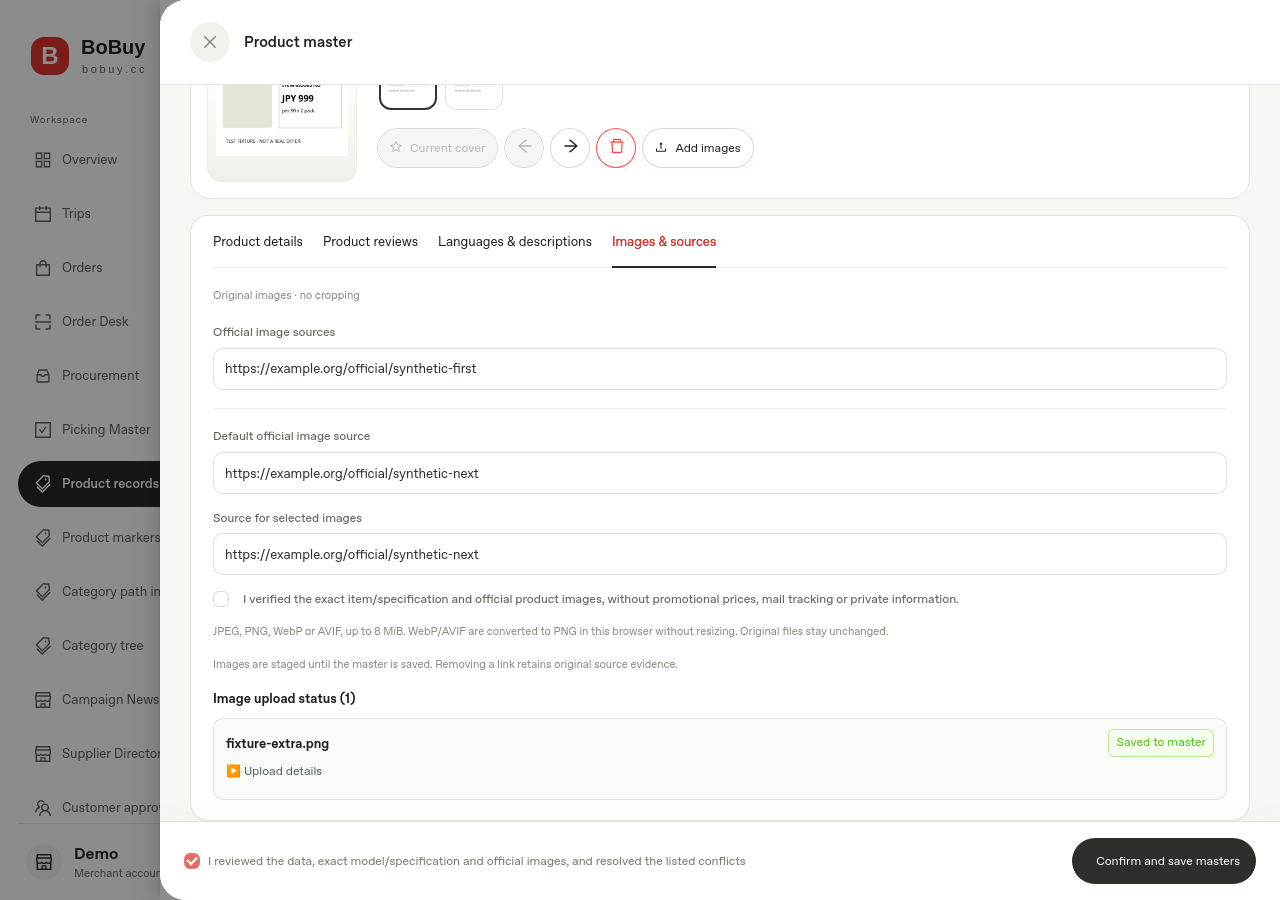
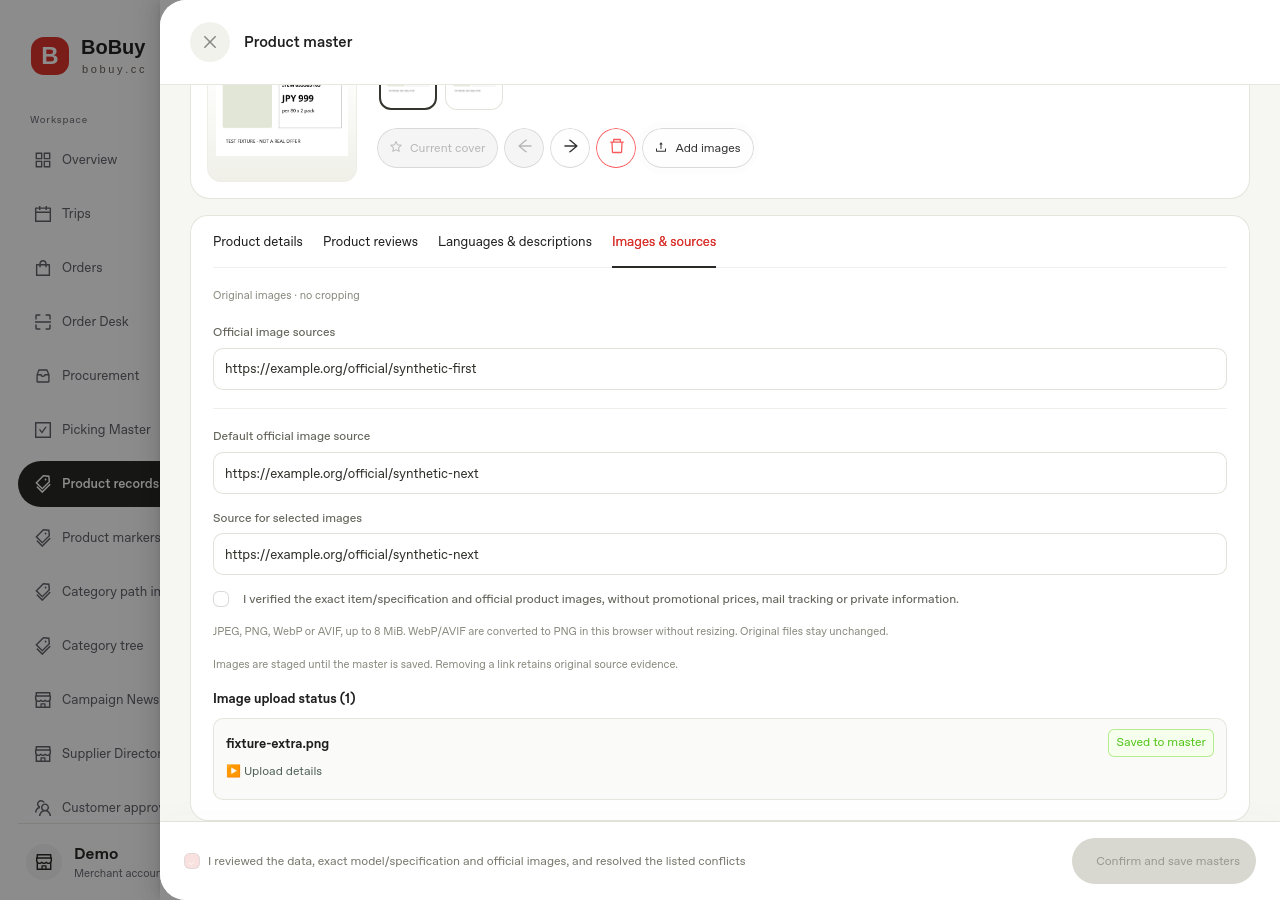
Keep the pending image source editable after removing the last image

Changed region(s): [[0.8125, 0.9333, 1.0, 0.9956], [0.125, 0.9333, 0.1562, 0.9644]]

diff --git a/frontend/src/components/ProductCatalogPanel.uploadFeedback.test.tsx b/frontend/src/components/ProductCatalogPanel.uploadFeedback.test.tsx
@@ -48,6 +48,59 @@ it('opens the picker once per add action even before source review, including af
  expect(screen.getByRole('button',{name:'Upload selected images'})).toBeDisabled();
  expect(mock.upload).not.toHaveBeenCalled();
 });
+it('clears staged files, temporary source and approval when closing A and opening B',async()=>{
+ const savedSource='https://manufacturer.example/saved-source';
+ const override='https://manufacturer.example/only-for-a';
+ const original=picture('original',file('original.png').sha);
+ mock.get.mockImplementation(async(id:string)=>({
+  value:{...value,productId:id,itemNumber:id==='p1'?'SKU-P1':'SKU-P2',
+   defaultImageSourceUrl:savedSource,gallery:[original]},canonical:true,sourceItemIds:[]
+ }));
+ const onChoose=vi.fn(),onSaved=vi.fn();
+ const editor=(id?:string)=><I18nProvider><ProductCatalogPanel id={id} entries={[]} onChoose={onChoose} onSaved={onSaved}/></I18nProvider>;
+ const view=render(editor('p1'));
+ await openMedia();
+ const source=()=>screen.getByLabelText('Source for selected images');
+ const approval=()=>screen.getByRole('checkbox',{name:/I verified the exact item/});
+ fireEvent.change(source(),{target:{value:override}});
+ fireEvent.click(approval());
+ fireEvent.change(input(),{target:{files:[file('private-a.png').file]}});
+ expect(screen.getByText('private-a.png')).toBeInTheDocument();
+ fireEvent.change(input(),{target:{files:[]}});
+ expect(screen.getByText('private-a.png')).toBeInTheDocument();
+ expect(source()).toHaveValue(override);
+ expect(approval()).toBeChecked();
+ fireEvent.click(screen.getByRole('button',{name:'Close'}));
+ expect(onChoose).toHaveBeenCalledWith(undefined);
+ view.rerender(editor());
+ view.rerender(editor('p2'));
+ await screen.findByDisplayValue('SKU-P2');
+ fireEvent.click(screen.getByRole('tab',{name:'Images & sources'}));
+ expect(screen.queryByText('private-a.png')).not.toBeInTheDocument();
+ expect(screen.queryByRole('button',{name:'Upload selected images'})).not.toBeInTheDocument();
+ expect(source()).toHaveValue(savedSource);
+ expect(approval()).not.toBeChecked();
+ view.rerender(editor('p1'));
+ await openMedia();
+ expect(screen.queryByText('private-a.png')).not.toBeInTheDocument();
+ expect(source()).toHaveValue(savedSource);
+ expect(approval()).not.toBeChecked();
+ expect(mock.upload).not.toHaveBeenCalled();
+});
+it('allows recovering the per-upload source after removing the last existing image',async()=>{
+ const original=picture('original',file('original.png').sha);
+ mock.get.mockResolvedValue({value:{...value,defaultImageSourceUrl:'https://manufacturer.example/default',gallery:[original]},canonical:true});
+ render(<I18nProvider><ProductCatalogPanel id="p1" entries={[]} onChoose={vi.fn()} onSaved={vi.fn()}/></I18nProvider>);
+ await openMedia();
+ fireEvent.change(screen.getByLabelText('Source for selected images'),{target:{value:''}});
+ fireEvent.click(screen.getByRole('button',{name:'Remove'}));
+ fireEvent.change(input(),{target:{files:[file('replacement.png').file]}});
+ const source=screen.getByLabelText('Source for selected images');
+ fireEvent.change(source,{target:{value:'https://manufacturer.example/replacement'}});
+ fireEvent.click(screen.getByRole('checkbox',{name:/I verified the exact item/}));
+ expect(screen.getByRole('button',{name:'Upload selected images'})).toBeEnabled();
+ expect(screen.getByLabelText('Default official image source')).toHaveValue('https://manufacturer.example/default');
+});
 it('first-file failure remains visible and clears the picker so the same file can be chosen again',async()=>{
  const a=file('first.png');mock.upload.mockRejectedValueOnce(new Error('gallery.invalid')).mockResolvedValueOnce(picture('asset-first',a.sha));
  render(<I18nProvider><ProductCatalogPanel id="p1" entries={[]} onChoose={vi.fn()} onSaved={vi.fn()}/></I18nProvider>);await openMedia();const picker=select([a.file]);

diff --git a/frontend/src/components/ProductCatalogPanel.tsx b/frontend/src/components/ProductCatalogPanel.tsx
@@ -170,7 +170,7 @@ function CatalogEditor({entries,id,onChoose,onSaved,searchEntries,getExportIds,c
       {cover&&<label>{t('gallery.sources')}<Input value={cover.sourceUrl??''} onChange={e=>patch({gallery:draft.gallery.map((p,i)=>i===activeImage?{...p,sourceUrl:e.target.value}:p)})}/></label>}
       <div className="catalog-upload-group">
        <label>{t('gallery.default_source')}<Input value={draft.defaultImageSourceUrl??''} onChange={e=>{patch({defaultImageSourceUrl:e.target.value});setImageReviewed(false);}} placeholder="https://…"/></label>
-       {cover&&<label>{t('gallery.upload_source')}<Input value={uploadSource} onChange={e=>{setSource(e.target.value);setImageReviewed(false);}} placeholder="https://…"/></label>}
+       {(cover||pendingFiles.length>0||source!==undefined)&&<label>{t('gallery.upload_source')}<Input value={uploadSource} onChange={e=>{setSource(e.target.value);setImageReviewed(false);}} placeholder="https://…"/></label>}
        <Checkbox checked={imageReviewed} onChange={e=>setImageReviewed(e.target.checked)}>{t('gallery.ack')}</Checkbox>
        <p className="catalog-image-guidance">{t('gallery.format_hint')}</p>
        {!!pendingFiles.length&&<><ul className="catalog-picked-files">{pendingFiles.map((file,index)=>

diff --git a/docs/plans/PRODUCT-GALLERY-UPLOAD-INCIDENT-20261121.md b/docs/plans/PRODUCT-GALLERY-UPLOAD-INCIDENT-20261121.md
@@ -16,6 +16,8 @@
 - `ProductCatalogIntegrationTest` 经真实 HTTP 控制器和隔离数据库验证来源持久化及首图实际上传保存，包括越权、版本、恢复和公开状态。
 - 发布后使用获准的隔离商品验证从选择到主图回读，iPhone Safari／Chrome／Edge 需要实际设备验证系统选择器。生产待补图商品应继续由商家按授权流程操作。开发和验收均不批量改写现有商品。
 
-候选证据：WebKit 每个宽度观察到四次原生选择器事件、两次经审核上传，刷新后来源回读成功，既有图片保留逐图来源。档案列表请求在刷新时有一次 WebKit 夹具中断，已在记录中单列。图库接口和交互没有其他错误。定向前端 20 项、后端 8 项通过。V51 在隔离 PostgreSQL 上连续运行两次，均得到两个可空来源列。
+候选证据：WebKit 每个宽度观察到四次原生选择器事件、两次经审核上传，刷新后来源回读成功，既有图片保留逐图来源。390 px 档案列表请求在刷新时有两次 WebKit 夹具中断，已在记录中单列。图库接口和交互没有其他错误。定向前端 22 项、后端 8 项通过。V51 在隔离 PostgreSQL 上连续运行两次，均得到两个可空来源列。
 
 [390 截图](../reports/evidence/product-gallery-upload-20261121/gallery-390.png) · [1280 截图](../reports/evidence/product-gallery-upload-20261121/gallery-1280.png) · [WebKit 记录](../reports/evidence/product-gallery-upload-20261121/gallery-webkit.json)
+
+追加回归通过 A→B→A 验证暂存文件、来源覆盖及核对状态按商品和会话隔离；同商品取消重选保留三项。删除最后一张图后，仍可修正已有的临时来源覆盖并提交。
